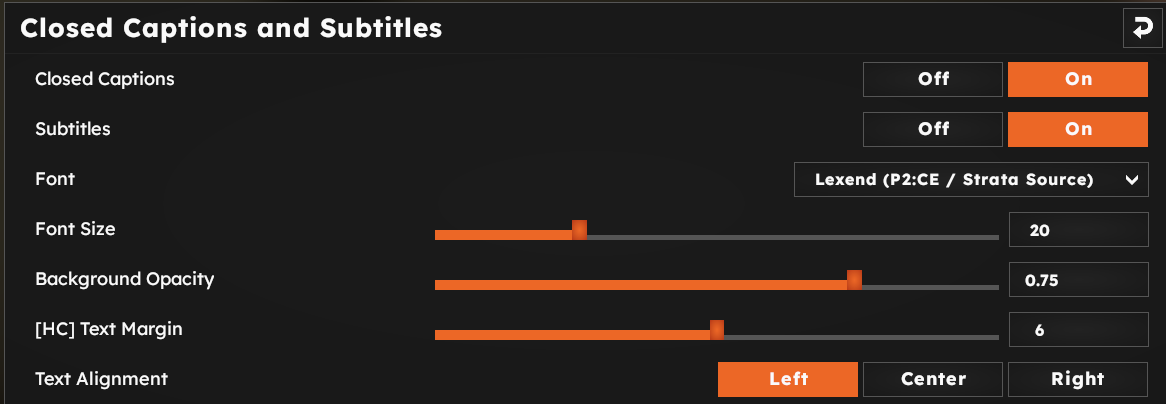
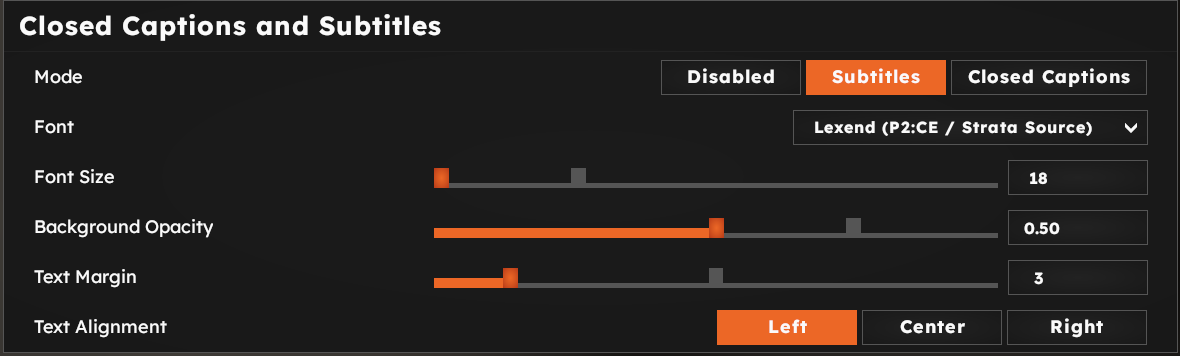
Update The Caption Documentation (#223)
* Added Caption Viewer DevUI documentation

* Removed duplicate DevUI pages

* Update launchoptions.md

* Added Caption System documentation

* Minor changes

* Huge changes (see desc)

- New DevUI windows
- Shadow atlas update
- New console commands
- Separate cookies
- Caption doc
- Meta flags for DevUI and captions

* Expanded cookes, minor fixes

* Cookies & captions

* Update .gitignore

* Update .gitignore

* Final cookies update & PCC fix

* Remomed duplicate images

* Minor spelling mistakes

* Added requested changes

* Minor spelling mistake

* Update debug.md

* Added requested changes

* Minor spelling mistake

* Update debug.md

* Added more requested changes

* Added requested changes

* Minor spelling mistake

* Update debug.md

* Added more requested changes

* Updated The Captions Documentation

* Fixed "fogvolume" typo

* Fixed mistake in specular

---------

diff --git a/docs/graphics/volumetrics/intro.md b/docs/graphics/volumetrics/intro.md
@@ -38,7 +38,7 @@ Volumetrics support light cookies from `light_rt`, `light_rt_spot` and `env_proj
 
 ## Volumetrical Fog
 
-In addition to individual volumetrics for the Clustered lights, there is a new point entity called `obb_fogvolume`. It allows placing a visually simulated 3 dimensional fog volume constrained to its oriented bounding box. This fog volume can be altered through pre-defined keyvalues and user-defined 3d textures, allowing custom shapes, colors, and density. Most importantly, **it displays the light sources passing through the volume, giving them a visualized depth beyond just light projected onto adjacent surfaces**. Volumetrics can also be directly emitted from light sources independently of the entity, allowing a direct 3d visualization of the light in an area.
+In addition to individual volumetrics for the Clustered lights, there is a new point entity called `obb_volumefog`. It allows placing a visually simulated 3 dimensional fog volume constrained to its oriented bounding box. This fog volume can be altered through pre-defined keyvalues and user-defined 3d textures, allowing custom shapes, colors, and density. Most importantly, **it displays the light sources passing through the volume, giving them a visualized depth beyond just light projected onto adjacent surfaces**. Volumetrics can also be directly emitted from light sources independently of the entity, allowing a direct 3d visualization of the light in an area.
 
 #### KeyValues:
 * `Half-Width` of the fog on the Y axis;
@@ -61,7 +61,7 @@ In addition to individual volumetrics for the Clustered lights, there is a new p
 
 ![OBB_VolumeFog with a custom texture](images/obb_volume_changetexture.jpg)
 
-All `obb_fogvolume`'s KeyValues can be changed in realtime in-game using the Clustered Volumetrics Inspector.
+All `obb_volumefog`'s KeyValues can be changed in realtime in-game using the Clustered Volumetrics Inspector.
 
 ![Clustered Volumetric Inspector](images/fog_inspector.png)
 
@@ -69,7 +69,7 @@ All `obb_fogvolume`'s KeyValues can be changed in realtime in-game using the Clu
 
 To set up the volumetric fog for the whole map, you can use the **Clustered Volumetrics Inspector** in the Developer UI menu. You can enable the Clustered Volumetrics Inspector UI using the  `devui_show vol_editor` console command, or by pressing `shift + f1` and selecting `Clustered Volumetrics Inspector` menu in the `Graphics` tab on the top left.
 
-Clustered Volumetrics Inspector allows setting the global volumetric properties (e.g. density) to be interacted with by volumetric lights, allowing to one to preview the volumetric lighting on maps that were compiled before the update. It does that by applying a pseudo-`obb_fogvolume` that covers the entire map, values of which are controlled by this menu.
+Clustered Volumetrics Inspector allows setting the global volumetric properties (e.g. density) to be interacted with by volumetric lights, allowing to one to preview the volumetric lighting on maps that were compiled before the update. It does that by applying a pseudo-`obb_volumefog` that covers the entire map, values of which are controlled by this menu.
 
 > [!NOTE]
 > Changes made in Clustered Volumetrics Inspector are not persistent. 
@@ -78,8 +78,8 @@ Clustered Volumetrics Inspector allows setting the global volumetric properties 
 
 **Clustered Volumetrics Inspector has the following list of values:**
 
-* `Show Volume Bounds` - if an `obb_fogvolume` entity is present, it will show its bounds as a white box.
-* `Show Only in Radius` will only show `obb_fogvolume` entities in a specified radius. This only affects the `obb_fogvolume` list below.
+* `Show Volume Bounds` - if an `obb_volumefog` entity is present, it will show its bounds as a white box.
+* `Show Only in Radius` will only show `obb_volumefog` entities in a specified radius. This only affects the `obb_volumefog` list below.
 * `Default Fog Emissive Color` sets the emissive fog color for the whole map. Appears on top of the regular fog created by `env_fog_controller`, works similarly.
 * `Default Fog Density` sets the density of the fog for the whole map, similarly to the `env_fog_controller`'s fog density.
 * `Default Fog Scattering Color` sets the color for the volumetric rays that are casted by CSM and Clustered lighting. Useful only in maps that were compiled before the update.
@@ -87,7 +87,7 @@ Clustered Volumetrics Inspector allows setting the global volumetric properties 
 
 ![CVI Menu](images/graphics_vol-menu.png)
 
-If you specify an `obb_fogvolume` entity in the fogvolume list, the following properties will be able to be changed:
+If you specify an `obb_volumefog` entity in the fogvolume list, the following properties will be able to be changed:
 * `Position` of the fog entity, with the value being the center of the fog;
 * `Angles` of the fog entity;
 * `Half Size` of the fog, which is split into width, length and height;
@@ -95,7 +95,7 @@ If you specify an `obb_fogvolume` entity in the fogvolume list, the following pr
 * `Fog Density`;
 * `Emissive Color`, which is the color of the fog itself;
 * `Scattering color`, which is the color of the volumetric rays that go through the fog's volume;
-* `Fog Phase`, which is similar to the `Default Fog Phase` except it is applied individually to this `obb_fogvolume`.
+* `Fog Phase`, which is similar to the `Default Fog Phase` except it is applied individually to this `obb_volumefog`.
 
 ![Clustered Volumetric Inspector](images/fog_inspector.png)
 

diff --git a/docs/modding/devui/categories/graphics.md b/docs/modding/devui/categories/graphics.md
@@ -58,14 +58,14 @@ Clustered Light Scale shows the shadow atlas, which is a single depth texture fo
 
 ## Clustered Volumetrics Inspector
 
-Clustered Volumetrics Inspector allows setting the volumetrical value for all clustered lights globally, allowing to preview the new volumetric lighting on the maps that were compiled before the update. It does that by applying a pseudo-`obb_fogvolume` that covers the whole map, values of which are controlled by this menu.
+Clustered Volumetrics Inspector allows setting the volumetrical value for all clustered lights globally, allowing to preview the new volumetric lighting on the maps that were compiled before the update. It does that by applying a pseudo-`obb_volumefog` that covers the whole map, values of which are controlled by this menu.
 
 ![CVI](images/graphics_vol.png)
 
 **Clustered Volumetrics Inspector has the following list of values:**
 
-* `Show Volume Bounds` - if an `obb_fogvolume` entity is present, it will show its bounds as a white box.
-* `Show Only in Radius` will only show `obb_fogvolume` entities in a specified radius. This only affects the `obb_fogvolume` list below.
+* `Show Volume Bounds` - if an `obb_volumefog` entity is present, it will show its bounds as a white box.
+* `Show Only in Radius` will only show `obb_volumefog` entities in a specified radius. This only affects the `obb_volumefog` list below.
 * `Default Fog Emissive Color` sets the emissive fog color for the whole map. Appears on top of the regular fog created by `env_fog_controller`, works similarly.
 * `Default Fog Density` sets the density of the fog for the whole map, similarly to the `env_fog_controller`'s fog density.
 * `Default Fog Scattering Color` sets the color for the volumetric rays that are casted by CSM and Clustered lighting. Useful only in maps that were compiled before the update.
@@ -73,7 +73,7 @@ Clustered Volumetrics Inspector allows setting the volumetrical value for all cl
 
 ![CVI Menu](images/graphics_vol-menu.png)
 
-If an `obb_fogvolume` entity is specified in the fogvolume list, the following properties will appear:
+If an `obb_volumefog` entity is specified in the fogvolume list, the following properties will appear:
 * `Position` of the fog entity, with the value being the center of the fog;
 * `Angles` of the fog entity;
 * `Half Size` of the fog, which is split into width, length and height;
@@ -81,7 +81,7 @@ If an `obb_fogvolume` entity is specified in the fogvolume list, the following p
 * `Fog Density`;
 * `Emissive Color`, which is the color of the fog itself;
 * `Scattering color`, which is the color of the volumetric rays that go through the fog's volume;
-* `Fog Phase`, which is similar to the `Default Fog Phase` except it is applied individually to this `obb_fogvolume`.
+* `Fog Phase`, which is similar to the `Default Fog Phase` except it is applied individually to this `obb_volumefog`.
 
 ****
 

diff --git a/docs/graphics/volumetrics/quick_setup.md b/docs/graphics/volumetrics/quick_setup.md
@@ -9,7 +9,7 @@ features:
 
 You can set up volumetrics in 3 ways:
 1. By using the corresponding KeyValues in `light_rt`, `light_rt_spot` and `env_projectedtexture` entities;
-2. By using `obb_fogvolume`;
+2. By using `obb_volumefog`;
 3. Through the [Clustered Volumetric Inspector](/modding/devui/categories/graphics#clustered-volumetrics-inspector) in the Developer UI menu.
 
 ## Using KeyValues:
@@ -35,9 +35,9 @@ You can set up volumetrics in 3 ways:
 
 ![env_projectedtexture KV](images/ptex_kv.png)
 
-## Using `obb_fogvolume`:
+## Using `obb_volumefog`:
 
-1. Add an `obb_fogvolume` entity
+1. Add an `obb_volumefog` entity
 2. Set the `Emissive Color` KeyValue to `1 1 1 1`
 3. Set the `Scattering Color` KeyValue to `255 255 255 255` or a similar value.
 3. Set the `Density` KeyValue to something around 0.7
@@ -46,8 +46,11 @@ You can set up volumetrics in 3 ways:
 3. For better results, add obstacles between the light entity and the fog
 3. Compile the map. The volumetric cloud should appear and interact with volumetric lighting
 
-![obb_fogvolume interaction with lighting](images/obb_volume_interact.png)
-![obb_fogvolume KeyValues](images/obb_volumefog_kv.png)
+> [!NOTE]
+> When clustered light with volumetric density higher than zero intersepts obb_volumefog, their density gets combined, so it is recommended to set the obb_volumefog density depending on the brightness of the light source falling on it.
+
+![obb_volumefog interaction with lighting](images/obb_volume_interact.png)
+![obb_volumefog KeyValues](images/obb_volumefog_kv.png)
 
 ## Using Clustered Volumetric Inspector:
 
@@ -62,6 +65,6 @@ There are 4 volumetrics-related options:
 
 # Volumetrics for Cascade Shadow Mapping
 
-Currently, there are no KeyValues that enable the volumetric fog for `env_cascade_light` entity. However, there are two ways to make them appear - through the [Clustered Volumetric Inspector](/modding/devui/categories/graphics#clustered-volumetrics-inspector), or by using `obb_fogvolume` entity, since cascade shadows are marked as volumetric.
+Currently, there are no KeyValues that enable the volumetric fog for `env_cascade_light` entity. However, there are two ways to make them appear - through the [Clustered Volumetric Inspector](/modding/devui/categories/graphics#clustered-volumetrics-inspector), or by using `obb_volumefog` entity, since cascade shadows are marked as volumetric.
 
 ![Volumetric effect of the Cascade Shadow Mapping](images/obb_volumefog_csm_interact_workaround.jpg)

diff --git a/docs/modding/captions/cmds.md b/docs/modding/captions/cmds.md
@@ -9,8 +9,7 @@ features:
 
 There are plenty of options in the settings menu to configure the captions.
 
-* `Closed Captions` enables closed captions.
-* `Subtitles` determines whether the SFX effects are shown in captions. If set to On, only dialogues will appear.
+* `Mode` determines which subtitles to show, if any. When `Disabled` is selected, subtitles will not be displayed. `Subtitles` shows all the subtitles, `Closed Captions` shows only dialogues (subtitles not marked as VFX)
 * `Font` is the font that the caption system uses.
     * `Lexend` as the default P2CE / Strata source font;
     * `Univers` from Portal 2;
@@ -31,7 +30,8 @@ Additionally, there are the following console commands:
 | --- | --- |
 | `cc_panorama` | Enable usage of Panorama Closed Captions over Legacy VGUI
 | `cc_lang` | Sets the language for the captions. Does not require map restarts - the next caption token will be displayed with a new language.
-| `cc_captions_debug` | smth
+| `cc_allow_txt_captions` | Allows text captions.
+| `cc_captions_debug` | Enables additional output strings in the console.
 | `cc_captiontrace` | Shows missing closecaptions (0 = no, 1 = devconsole, 2 = show in hud)
 | `cc_emit` | Shows a specified caption and plays its sound
 | `cc_emit_raw` | Same as `cc_emit` but raw text can be inserted
@@ -41,6 +41,9 @@ Additionally, there are the following console commands:
 | `cc_norepeat` | In multiplayer, don't repeat captions more often than this many seconds
 | `cc_panorama_log` | Enables Panorama CC verbose logging
 | `cc_panorama_reload` | Reloads caption definitions for Panorama subtitles only
+| `cc_panorama_bg_opacity` | Determines Panorama CC background color
+| `cc_panorama_entry_margin` | Sets the text margin.
+| `cc_prefer_dat_captions` | Allows using .dat captions instead of the new ones.
 | `cc_sentencecaptionnorepeat` | How often a sentence can repeat.
 | `cc_sfx_linger_time` | Close caption linger time for items marked as SFX
 | `cc_showmissing` | Shows missing closecaption entries.

diff --git a/docs/modding/captions/porting.md b/docs/modding/captions/porting.md
@@ -7,7 +7,7 @@ features:
 
 ## Porting captions
 
-The new caption system does not read the old caption files. Instead, it requires a new caption file with a custom structure - `subtitles_*language*.kv3`.
+The new caption system introduces the new caption structure, which can be found in `resource/subtitles_*language*.kv3`.
 
 ![KV3 caption file](images/kv3_file.png)
 
@@ -20,4 +20,8 @@ If the script fails (i.e. syntax error in the original captions), it will show t
 
 ![Converter drag-n-drop support](images/converter.png)
 
-Then copy the converted caption file to `resources`. Done!
+Then copy the converted caption file to `resources`.
+
+### .dat support
+
+There is a convar that allows switching between the new caption files and the old .dat ones - `cc_prefer_dat_captions`. If set to 1, .dat files will override .kv3 files.

diff --git a/docs/graphics/clustered/quick_start.md b/docs/graphics/clustered/quick_start.md
@@ -56,9 +56,9 @@ features:
 ## "I only want a specular reflection"
 
 1. Add a light_rt or light_rt_spot entity
-2. Set "Specular Light Mode" to "None"
+2. Set "Specular Light Mode" to "Dynamic Only"
 3. Set "Direct Light Mode" to "None"
-4. Set "Indirect Light Mode" to "Static Only"
+4. Set "Indirect Light Mode" to "None"
 5. Make sure the "Shadowed" flag is **checked**
 6. Set "50 percent falloff distance" and "0 percent falloff distance" KeyValues to adjust the look and feel
 7. For best results, use PBR textures with appropriate MRAOs and normal maps
